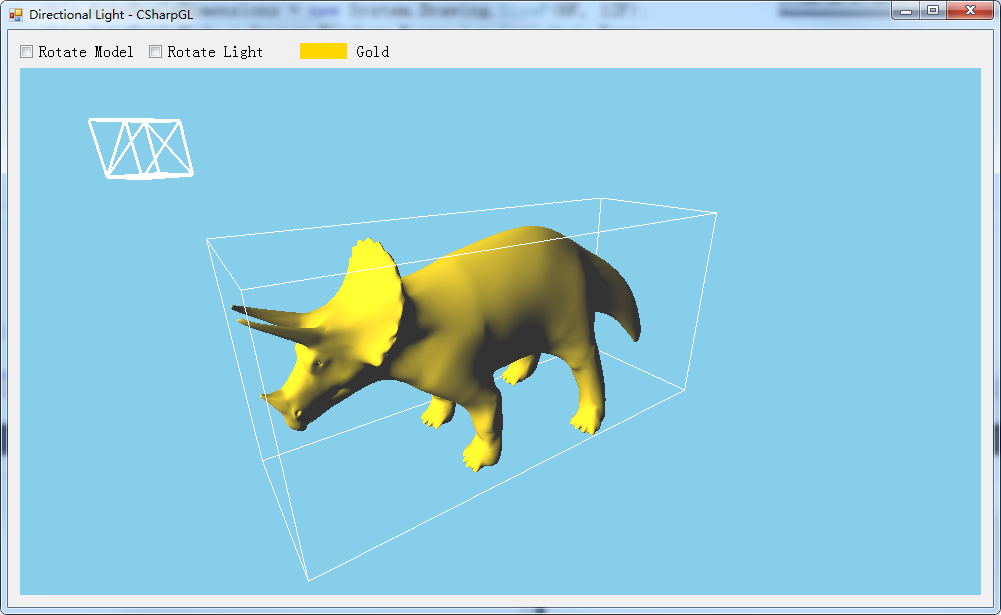
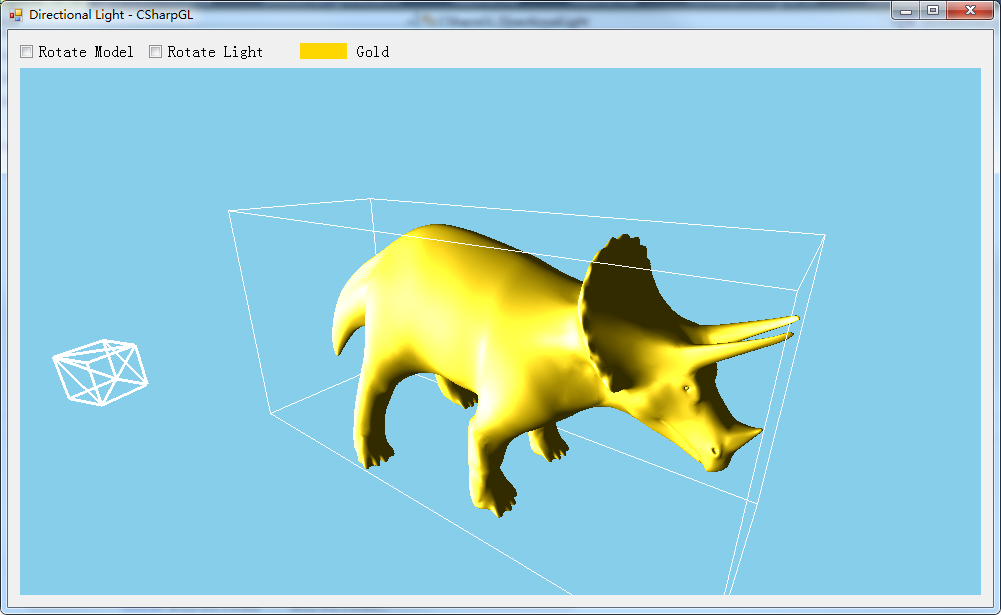
update

diff --git a/Demos/DirectionalLight/DirectionalLightNode.cs b/Demos/DirectionalLight/DirectionalLightNode.cs
@@ -72,10 +72,10 @@ namespace DirectionalLight
             mat3 normal = new mat3(glm.transpose(glm.inverse(view * model)));
             program.SetUniform(MVP, projection * view * model);
             program.SetUniform(normalMatrix, normal);
-            vec3 viewDirection = new vec3(view * new vec4(this.Light.Direction, 0.0f));
-            program.SetUniform(lightDirection, viewDirection);
+            vec3 lightDir = new vec3(view * new vec4(this.Light.Direction, 0.0f));
+            program.SetUniform(lightDirection, lightDir);
             var cameraDrection = new vec3(0, 0, 1); // camera direction in eye/view/camera space.
-            program.SetUniform(halfVector, (-viewDirection + cameraDrection).normalize());
+            program.SetUniform(halfVector, (lightDir + cameraDrection).normalize());
 
             unit.Render();
         }

diff --git a/Demos/DirectionalLight/DirectionalLightNode.shaders.cs b/Demos/DirectionalLight/DirectionalLightNode.shaders.cs
@@ -30,7 +30,7 @@ void main()
 uniform vec3 " + halfVector + @";
 uniform float " + shiness + @" = 6;
 uniform float " + strength + @" = 1;
-uniform vec3 " + lightDirection + @"; // light direction in view space
+uniform vec3 " + lightDirection + @"; // direction towards light source in view space
 uniform vec3 " + diffuseColor + @" = vec3(1, 0.8431, 0); // diffuse color of surface
 uniform vec3 " + ambientColor + @" = vec3(0.2, 0.2, 0.2);
 
@@ -43,7 +43,7 @@ void main()
 {
 	vec3 L = normalize(lightDirection); // light vector
 
-	float diffuse = max(0, dot(normalize(vEyeSpaceNormal), -L));
+	float diffuse = max(0, dot(normalize(vEyeSpaceNormal), L));
     float specular = 0;
     if (diffuse > 0)
     {

diff --git a/Demos/DirectionalLight/LightPostionNode.cs b/Demos/DirectionalLight/LightPostionNode.cs
@@ -93,7 +93,7 @@ void main(void) {
                     (float)Math.Cos(this.RotationAngle / 50 * Math.PI / 180.0),
                     (float)Math.Sin(this.RotationAngle / 5 * Math.PI / 180.0)) * 9;
                 this.light.Position = position;
-                this.light.Direction = -position;
+                this.light.Direction = position;
                 this.WorldPosition = position;
             }
 

diff --git a/CSharpGL4/Scene/SceneNodes/Lights/DirectionalLight.cs b/CSharpGL4/Scene/SceneNodes/Lights/DirectionalLight.cs
@@ -11,7 +11,7 @@ namespace CSharpGL
     public class DirectionalLight : LightBase
     {
         /// <summary>
-        /// 
+        /// Direction towards light source.
         /// </summary>
         public vec3 Direction { get; set; }
 
